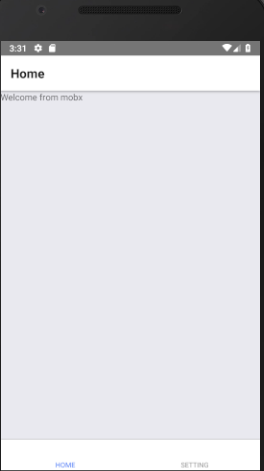
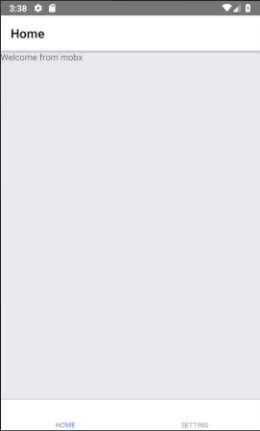
update readme and screenshot

Changed region(s): [[0.0, 0.0, 1.0, 1.0], [0.6769, 0.9652, 0.8, 0.9954], [0.2154, 0.9652, 0.3077, 0.9954]]

diff --git a/readme.md b/readme.md
@@ -31,3 +31,6 @@ react-native-rename "Dating App" -b com.yourname.appname
 ---
 
 ![Screenshot](https://raw.githubusercontent.com/nicoaudy/rn-mobx/master/src/assets/screenshot/splash.png)
+![Screenshot](https://raw.githubusercontent.com/nicoaudy/rn-mobx-boilerplate/master/src/assets/screenshot/login.png)
+![Screenshot](https://raw.githubusercontent.com/nicoaudy/rn-mobx-boilerplate/master/src/assets/screenshot/validation.png)
+![Screenshot](https://raw.githubusercontent.com/nicoaudy/rn-mobx-boilerplate/master/src/assets/screenshot/home.png)
